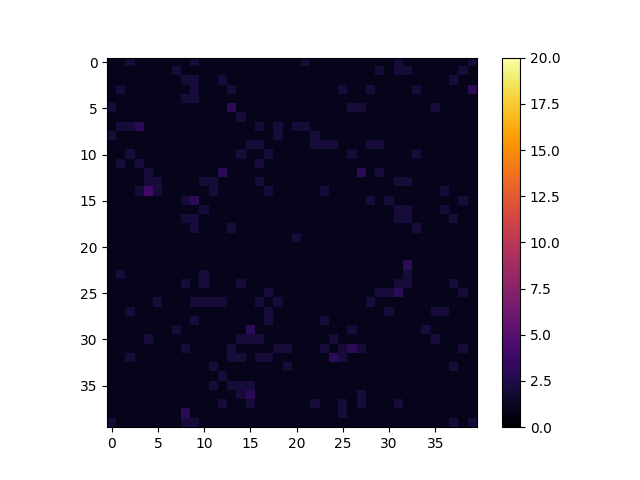
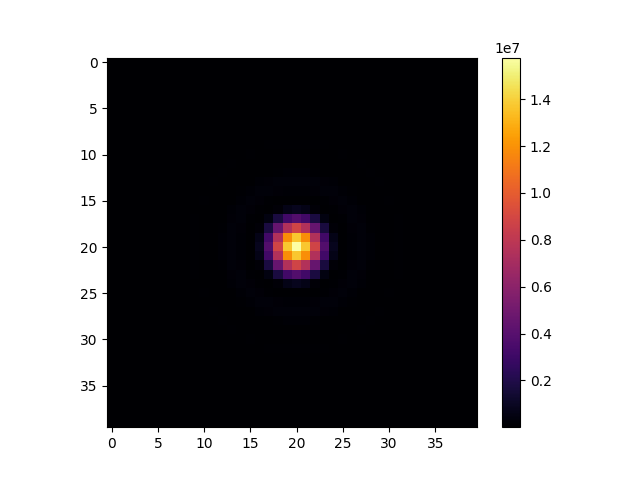
changes to contrast computation.

diff --git a/RL/environment.py b/RL/environment.py
@@ -78,7 +78,6 @@ class CoronagraphEnvironment(gym.Env):
 
         self.max_value = np.max(self.prop(self.wf).intensity)
 
-
         self.observation_space = spaces.Dict({
             "image": spaces.Box(low=0, high=1, shape=self.camera_shape, dtype=np.float32),
             "slopes": spaces.Box(low=-1e-3, high=1e-3, shape=self.slopes_shape, dtype=np.float32),
@@ -135,7 +134,7 @@ class CoronagraphEnvironment(gym.Env):
         if coronagraph_enabled:
             propagrated_wf = self.prop(self.lyot_stop(self.coro(self.deformable_mirror(self.wf))))
         else: 
-            propagrated_wf = self.prop(self.lyot_stop(self.wf))
+            propagrated_wf = self.prop(self.lyot_stop(self.deformable_mirror(self.wf)))
 
         # z4_defocus = zernike(4, self.pupil_grid, self.VLT_aperture)
 
